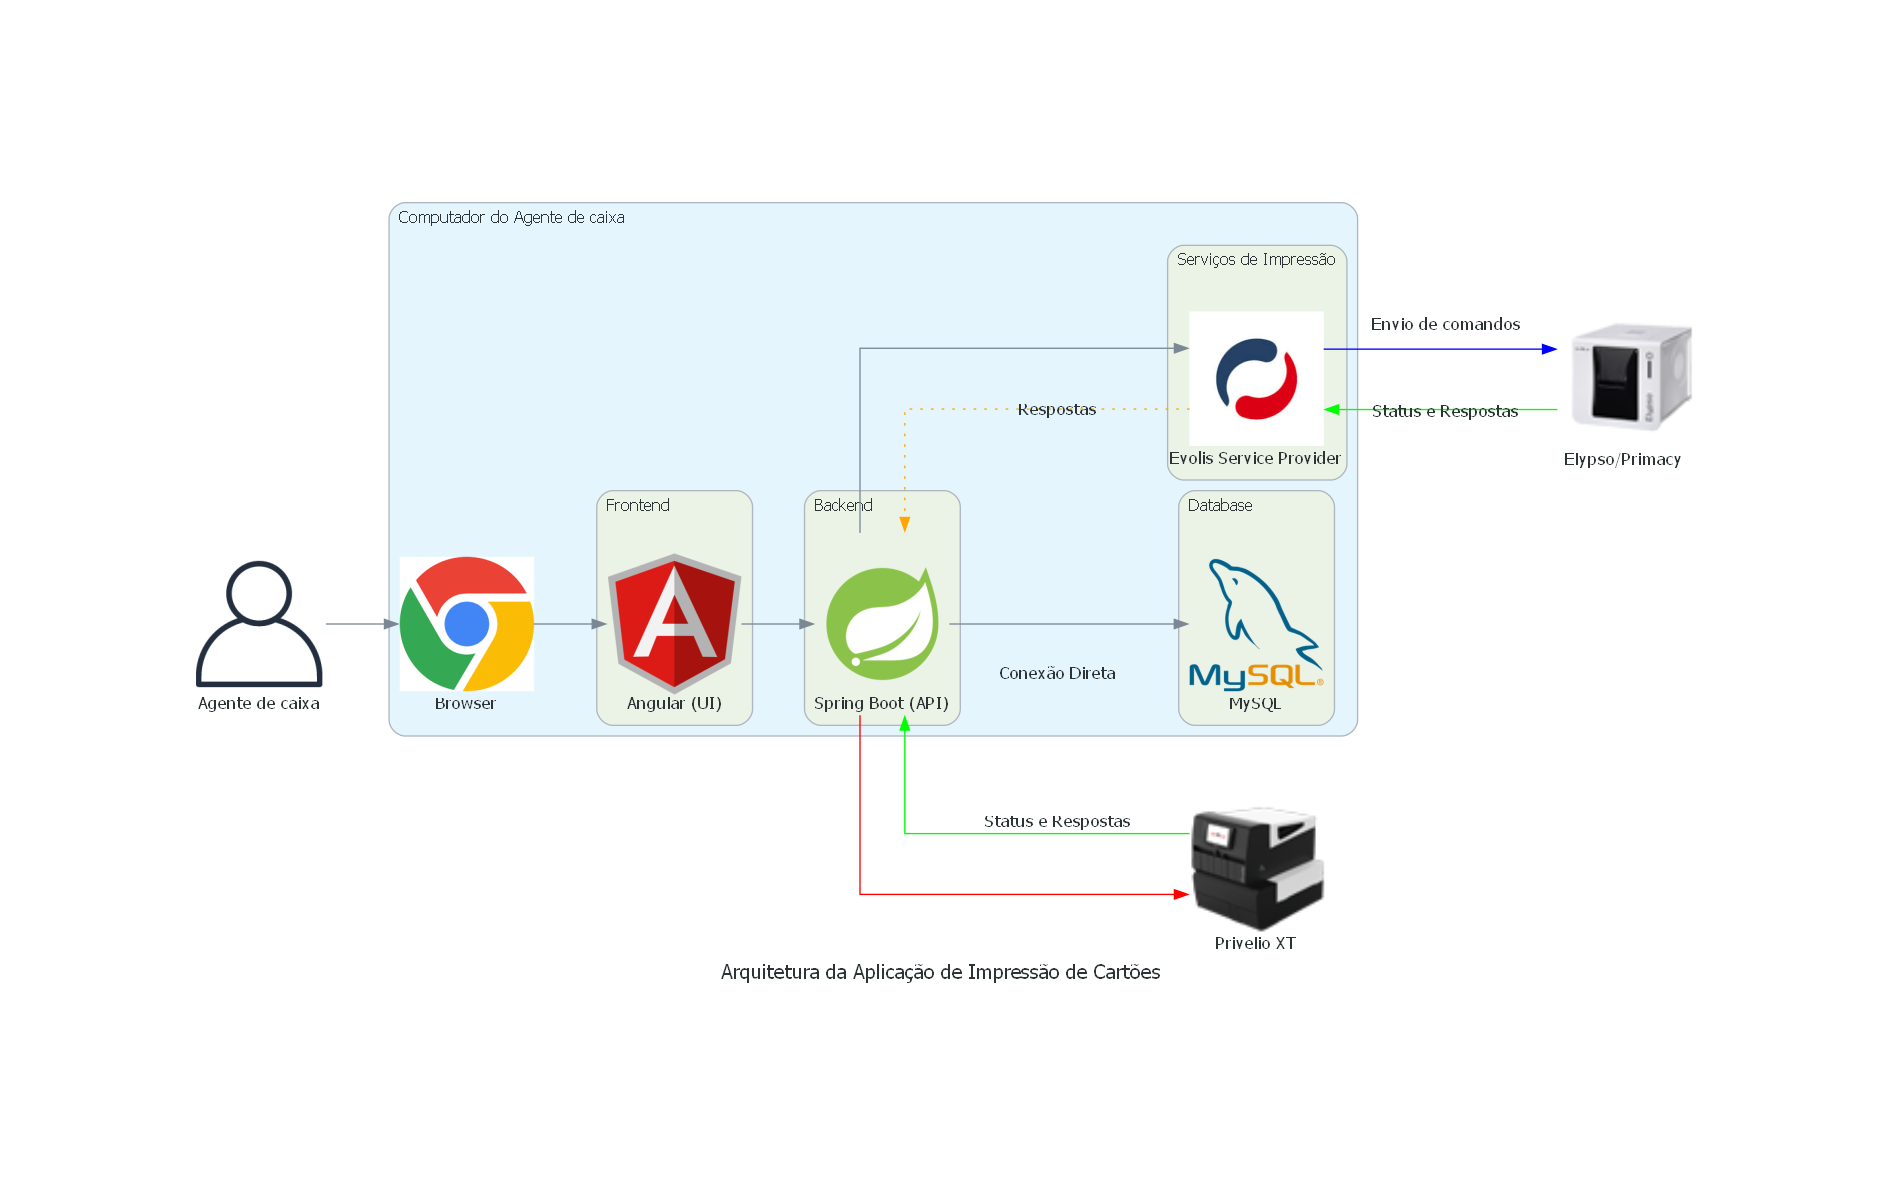
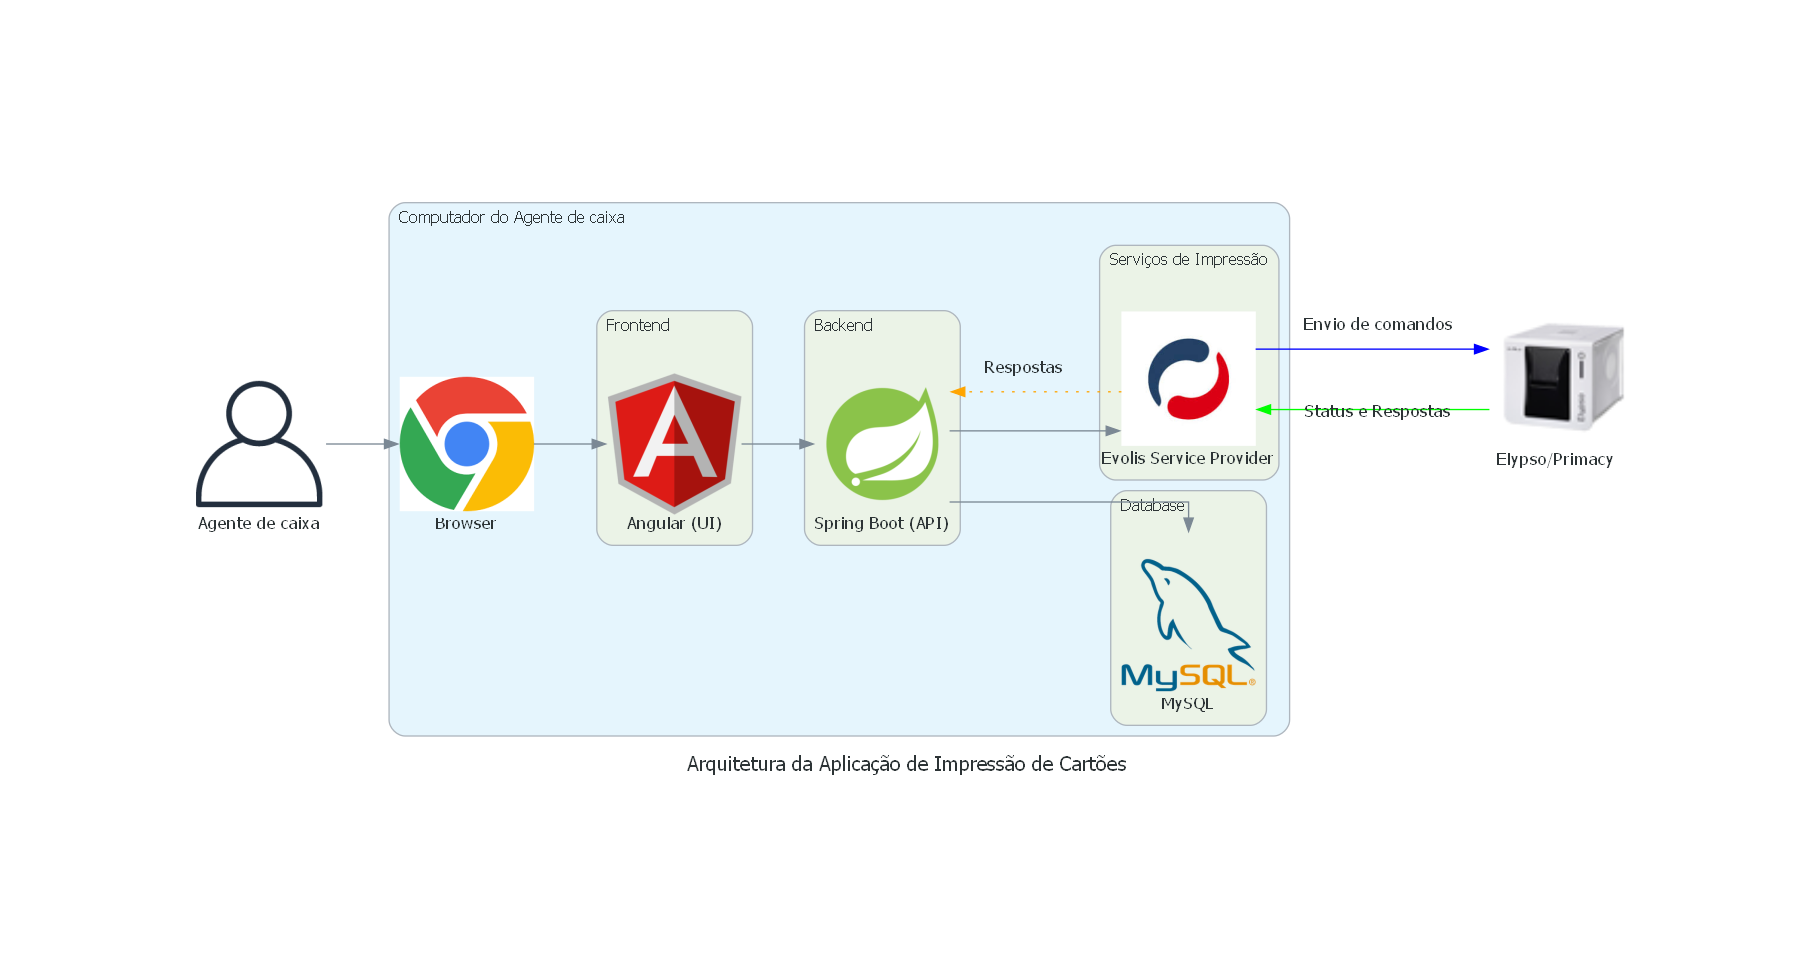
update

diff --git a/architecture-diagram-v2.py b/architecture-diagram-v2.py
@@ -29,14 +29,14 @@ with Diagram("Arquitetura da Aplicação de Impressão de Cartões", show=True):
 
     # Impressoras
     elypso = Custom("Elypso/Primacy", "images/elypso-64.png")
-    privelio = Custom("Privelio XT", "images/privelio-64.png")
+    #privelio = Custom("Privelio XT", "images/privelio-64.png")
 
     # Fluxo de Conexões
     user >> browser >> angular >> spring_boot
     spring_boot >> mysql
     spring_boot >> print_service
-    spring_boot >> Edge(label="Conexão Direta", color="red") >> privelio
+    #spring_boot >> Edge(label="Conexão Direta", color="red") >> privelio
     print_service >> Edge(label="Envio de comandos", color="blue") >> elypso
     elypso >> Edge(label="Status e Respostas", color="green") >> print_service
-    privelio >> Edge(label="Status e Respostas", color="green") >> spring_boot
+    #privelio >> Edge(label="Status e Respostas", color="green") >> spring_boot
     print_service >> Edge(label="Respostas", style="dotted", color="orange") >> spring_boot
